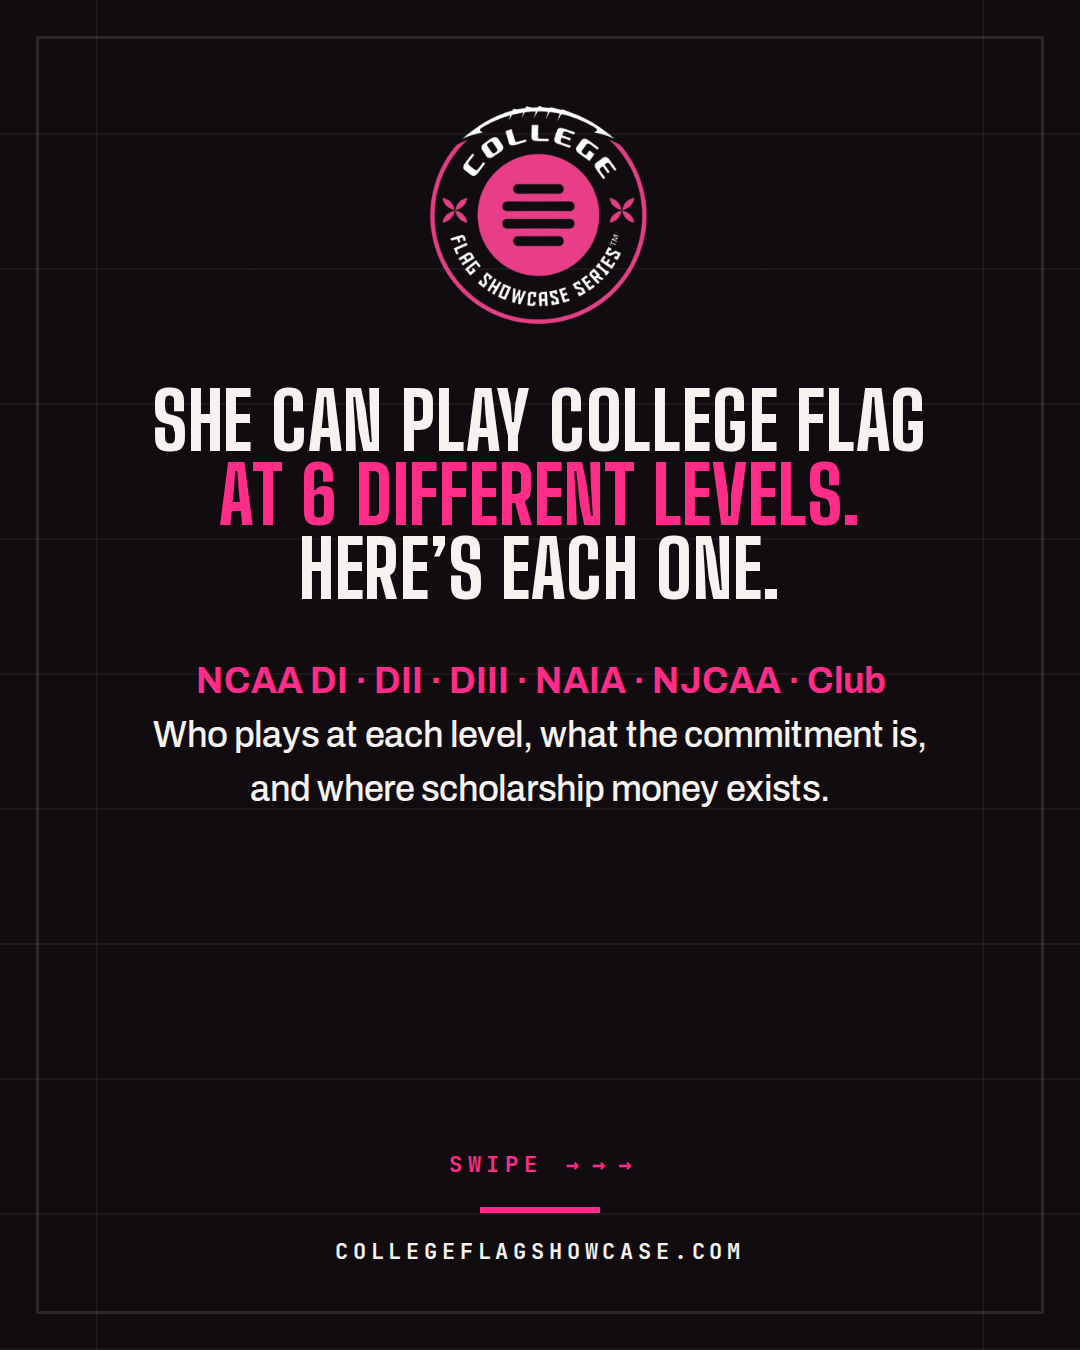
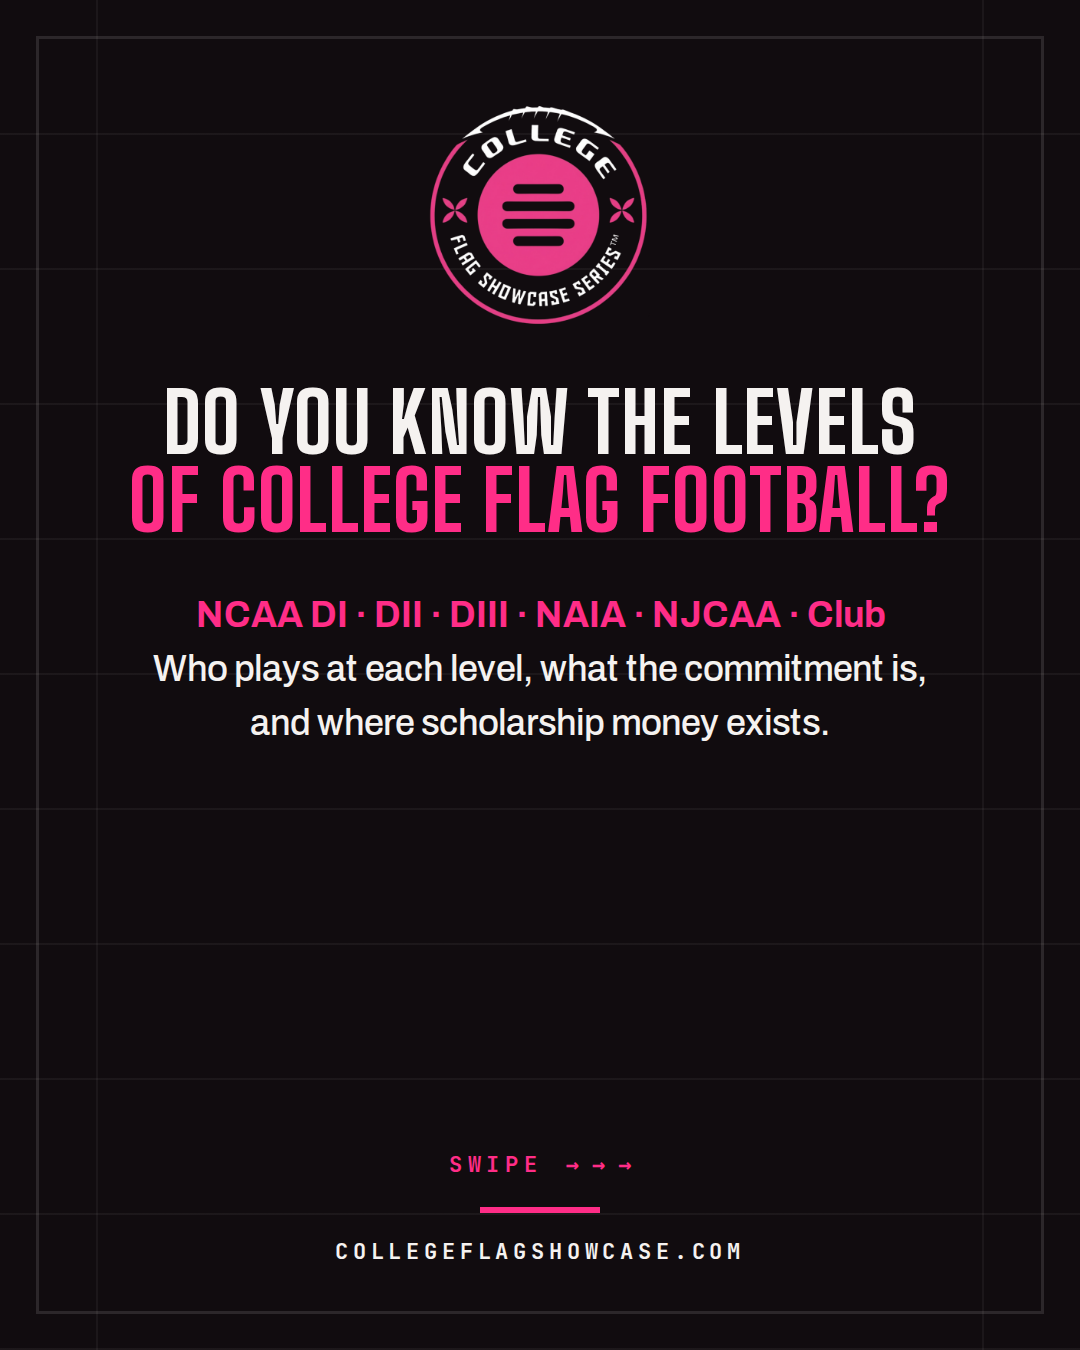
Cover hook: Do you know the levels of college flag football?
Claude-Session: https://claude.ai/code/session_019V32boShoBmRrwWenCPJFc

Changed region(s): [[0.1222, 0.28, 0.8861, 0.5911]]

diff --git a/collateral/ig-carousel-divisions.html b/collateral/ig-carousel-divisions.html
@@ -60,7 +60,7 @@
   <div class="yards"></div><div class="hash l"></div><div class="hash r"></div><div class="frame"></div>
   <div class="inner center">
     <img class="logo" src="../public/logo.png" alt="College Flag Showcase Series" />
-    <h1 class="cover-title" style="font-size:78px">She can play college flag<em>at 6 different levels.</em>Here&rsquo;s each one.</h1>
+    <h1 class="cover-title" style="font-size:82px">Do you know the levels<em>of college flag football?</em></h1>
     <p class="cover-body"><b>NCAA DI &middot; DII &middot; DIII &middot; NAIA &middot; NJCAA &middot; Club</b><br />Who plays at each level, what the commitment is, and where scholarship money exists.</p>
     <p class="swipe">Swipe<span>&nbsp;&rarr;&nbsp;&rarr;&nbsp;&rarr;</span></p>
     <div class="rule cover-rule"></div>
